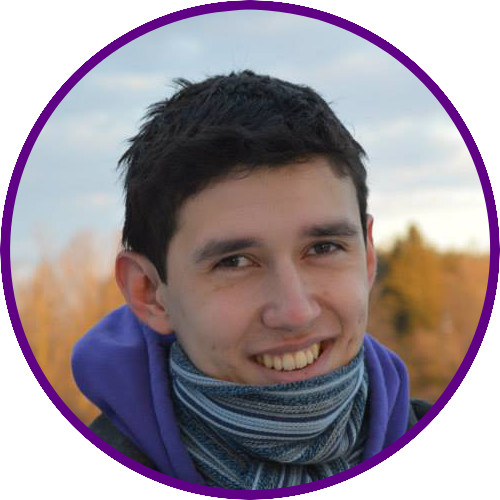
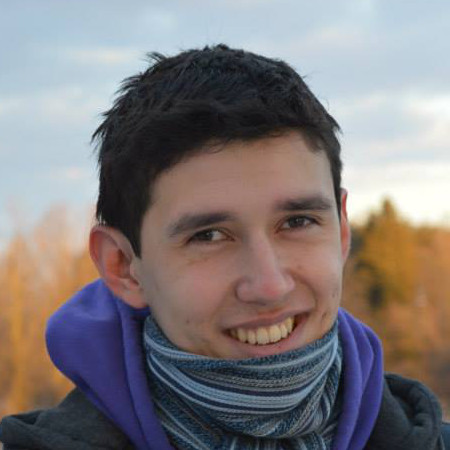
Projects now rendered through handlebars template.  Several more projects added.

diff --git a/client/src/home/home.less b/client/src/home/home.less
@@ -1,5 +1,7 @@
+@color-theme: rgba(102, 51, 153, 1);
+
 #banner {
-  background-color: rgba(102, 51, 153, 1);
+  background-color: @color-theme;
   text-align: center;
   height: 800px;
   &-name {
@@ -16,14 +18,15 @@
 }
 
 .image-me {
+  border: 6px solid @color-theme;
+  border-radius: 50%;
   height: 300px;
   width: 300px;
 }
-
 #about {
   padding: 40px;
   &-title {
-    color: rgba(102, 51, 153, 1);
+    color: @color-theme;
   }
   &-description {
     font-size: 20px;
@@ -35,7 +38,7 @@
   display: flex;
   flex-direction: horizontal;
   flex-wrap: nowrap;
-  background-color: rgba(102, 51, 153, 1);
+  background-color: @color-theme;
 }
 
 .project {
@@ -44,9 +47,11 @@
   }
   &-title {
     color: white;
+    font-size: 2.3em;
+
   }
   &-image {
     border-radius: 6px;
-    margin-top: 20px;
+    margin-top: 80px;
   }
 }

diff --git a/server/home/index.js b/server/home/index.js
@@ -1,6 +1,7 @@
 'use strict';
 
 var express = require('express');
+var projects = require('../../projects.json');
 
 var app = module.exports = express();
 var router = express.Router();
@@ -15,6 +16,7 @@ router.get('/', function (req, res) {
     ],
     appStyles: [
       'home.css'
-    ]
+    ],
+    projects: projects.data
   });
 });

diff --git a/client/src/home/home.js b/client/src/home/home.js
@@ -4,7 +4,7 @@
 
   // http://www.flatuicolorpicker.com/all
   var colors = {
-    valencia:       "#D64541", 
+    valencia:       "#D64541",
     wax:            "#F1A9A0",
     honeyFlower:    "#674172",
     sanMarino:      "#446CB3",

diff --git a/client/src/common/util.less b/client/src/common/util.less
@@ -1,9 +1,6 @@
 .u-noBold {
   font-weight: 400;
 }
-.u-robotoSlab {
-  font-family: 'Roboto Slab';
-}
 .u-widthWrapper {
   margin: 0 auto;
   max-width: 960px;

diff --git a/client/src/common/theme.less b/client/src/common/theme.less
@@ -1,8 +1,6 @@
 @navbarHeight: 55px;
 @heroHeight: 600px;
 
-@fontFamily-slab: 'Roboto Slab';
-
 @zIndex-behind: -1;
 @zIndex-default: 0;
 @zIndex-overlay: 1;
